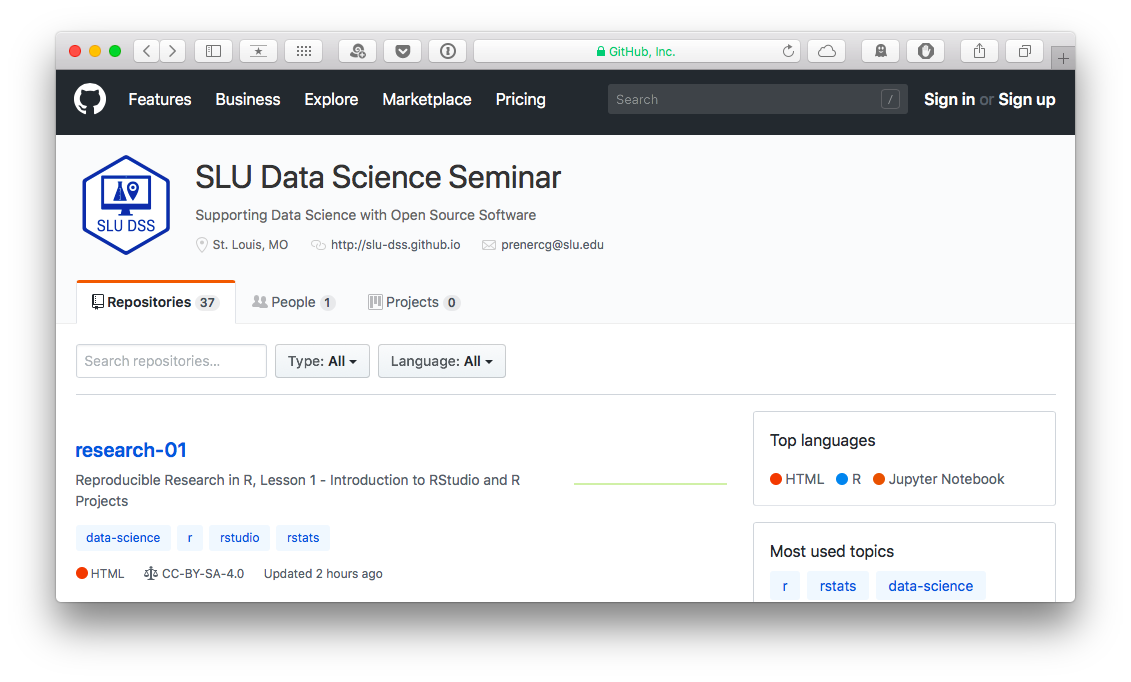
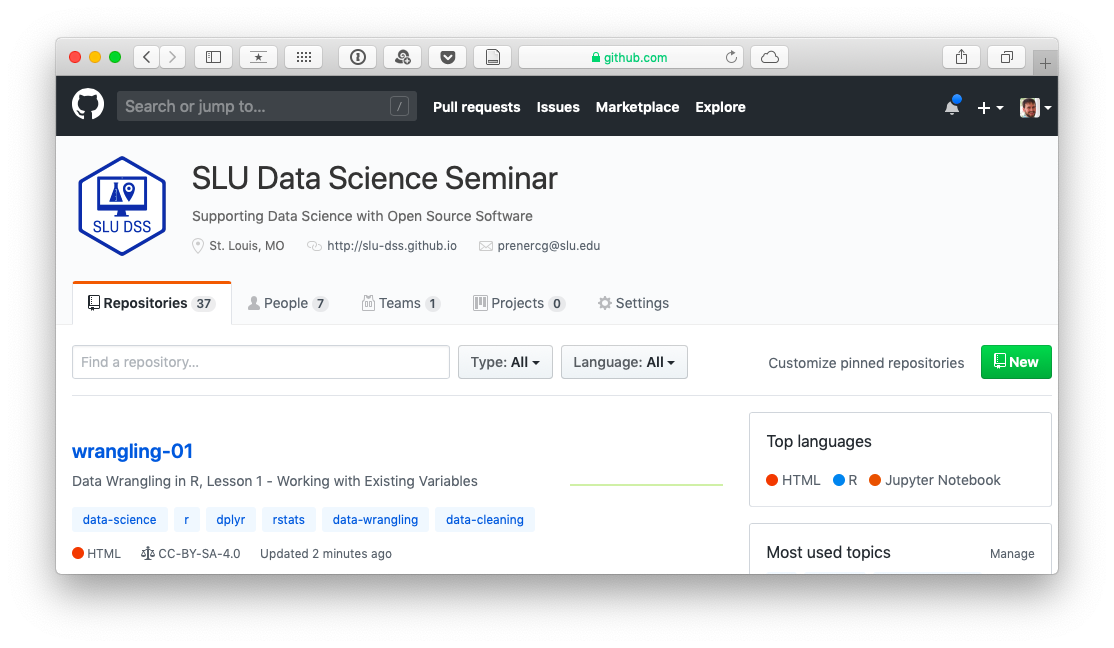
update github image, rebuild slides

diff --git a/docs/index.html b/docs/index.html
@@ -71,7 +71,7 @@ Our seminars cover *most* of data science workflow from Wickham and Grollman (20
 
 We host all of our materials on GitHub. If you want to get back to the lesson materials later, head to [https://github.com/slu-dss](https://github.com/slu-dss) and look for the `wrangling-01` repository (a special type of folder).
 
-&lt;img src="assets/github.png" width="1508" /&gt;
+&lt;img src="assets/github.png" width="1485" /&gt;
 
 ---
 
@@ -107,6 +107,19 @@ usethis::use_course(
 * *summarize* - create grouped summaries of data
 
 These are all implemented in the tidyverse package `dplyr`, which we'll be focusing on with this seminar series.
+
+---
+
+# Back to the Basics
+
+If you are new to `R` (or it has been awhile!), we covered a number of topics in the fall semester that might be useful as you start learning. 
+
+* `research-01` - Introduction to RStudio and `R` Projects
+* `research-02` - Reading and Writing Data
+* `research-03` - Notebooks and RMarkdown
+* `research-04` - Using `knitr`
+
+You can find all of the materials for each seminar on our GitHub page!
     </textarea>
 <script src="https://remarkjs.com/downloads/remark-latest.min.js"></script>
 <script>var slideshow = remark.create({
